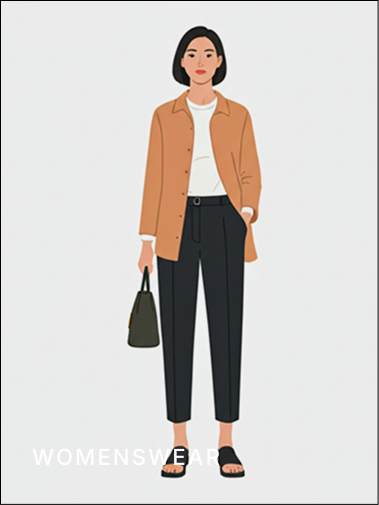
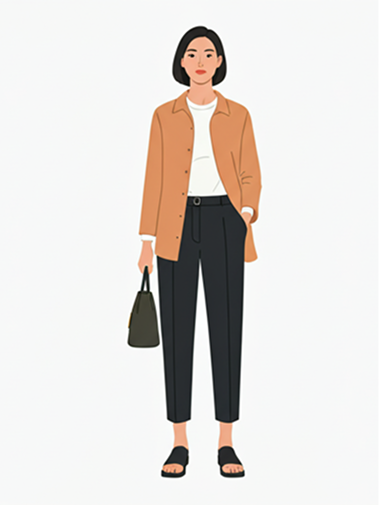
Trending-sec

Changed region(s): [[0.0, 0.0, 1.0, 1.0], [0.4354, 0.8614, 0.4934, 0.9208], [0.0, 0.0, 0.029, 0.0297]]

diff --git a/assets/src/output.css b/assets/src/output.css
@@ -16,10 +16,15 @@
     --text-sm--line-height: calc(1.25 / 0.875);
     --text-base: 1rem;
     --text-base--line-height: calc(1.5 / 1);
+    --text-lg: 1.125rem;
+    --text-lg--line-height: calc(1.75 / 1.125);
     --text-xl: 1.25rem;
     --text-xl--line-height: calc(1.75 / 1.25);
+    --text-2xl: 1.5rem;
+    --text-2xl--line-height: calc(2 / 1.5);
     --text-5xl: 3rem;
     --text-5xl--line-height: 1;
+    --font-weight-bold: 700;
     --default-transition-duration: 150ms;
     --default-transition-timing-function: cubic-bezier(0.4, 0, 0.2, 1);
     --default-font-family: var(--font-sans);
@@ -180,6 +185,45 @@
   }
 }
 @layer utilities {
+  .absolute {
+    position: absolute;
+  }
+  .relative {
+    position: relative;
+  }
+  .top-4 {
+    top: calc(var(--spacing) * 4);
+  }
+  .top-8 {
+    top: calc(var(--spacing) * 8);
+  }
+  .bottom-0 {
+    bottom: calc(var(--spacing) * 0);
+  }
+  .bottom-8 {
+    bottom: calc(var(--spacing) * 8);
+  }
+  .left-0 {
+    left: calc(var(--spacing) * 0);
+  }
+  .left-4 {
+    left: calc(var(--spacing) * 4);
+  }
+  .left-8 {
+    left: calc(var(--spacing) * 8);
+  }
+  .z-1 {
+    z-index: 1;
+  }
+  .z-3 {
+    z-index: 3;
+  }
+  .z-7 {
+    z-index: 7;
+  }
+  .z-10 {
+    z-index: 10;
+  }
   .container {
     width: 100%;
     @media (width >= 40rem) {
@@ -255,6 +299,9 @@
   .flex-col {
     flex-direction: column;
   }
+  .flex-row {
+    flex-direction: row;
+  }
   .items-center {
     align-items: center;
   }
@@ -264,6 +311,12 @@
   .justify-start {
     justify-content: flex-start;
   }
+  .gap-1 {
+    gap: calc(var(--spacing) * 1);
+  }
+  .gap-2 {
+    gap: calc(var(--spacing) * 2);
+  }
   .gap-4 {
     gap: calc(var(--spacing) * 4);
   }
@@ -272,6 +325,9 @@
   }
   .gap-8 {
     gap: calc(var(--spacing) * 8);
+  }
+  .gap-12 {
+    gap: calc(var(--spacing) * 12);
   }
   .border {
     border-style: var(--tw-border-style);
@@ -290,6 +346,24 @@
   .bg-sectionbackground {
     background-color: var(--color-sectionbackground);
   }
+  .bg-white {
+    background-color: var(--color-white);
+  }
+  .p-1 {
+    padding: calc(var(--spacing) * 1);
+  }
+  .p-6 {
+    padding: calc(var(--spacing) * 6);
+  }
+  .p-10 {
+    padding: calc(var(--spacing) * 10);
+  }
+  .px-2 {
+    padding-inline: calc(var(--spacing) * 2);
+  }
+  .px-3 {
+    padding-inline: calc(var(--spacing) * 3);
+  }
   .px-6 {
     padding-inline: calc(var(--spacing) * 6);
   }
@@ -298,6 +372,12 @@
   }
   .px-24 {
     padding-inline: calc(var(--spacing) * 24);
+  }
+  .py-1 {
+    padding-block: calc(var(--spacing) * 1);
+  }
+  .py-2 {
+    padding-block: calc(var(--spacing) * 2);
   }
   .py-4 {
     padding-block: calc(var(--spacing) * 4);
@@ -317,6 +397,14 @@
   .text-center {
     text-align: center;
   }
+  .text-2xl {
+    font-size: var(--text-2xl);
+    line-height: var(--tw-leading, var(--text-2xl--line-height));
+  }
+  .text-lg {
+    font-size: var(--text-lg);
+    line-height: var(--tw-leading, var(--text-lg--line-height));
+  }
   .text-sm {
     font-size: var(--text-sm);
     line-height: var(--tw-leading, var(--text-sm--line-height));
@@ -333,11 +421,22 @@
     font-size: var(--text-xs);
     line-height: calc(var(--spacing) * 3);
   }
+  .font-bold {
+    --tw-font-weight: var(--font-weight-bold);
+    font-weight: var(--font-weight-bold);
+  }
+  .text-black {
+    color: var(--color-black);
+  }
   .text-white {
     color: var(--color-white);
   }
   .underline {
     text-decoration-line: underline;
+  }
+  .shadow {
+    --tw-shadow: 0 1px 3px 0 var(--tw-shadow-color, rgb(0 0 0 / 0.1)), 0 1px 2px -1px var(--tw-shadow-color, rgb(0 0 0 / 0.1));
+    box-shadow: var(--tw-inset-shadow), var(--tw-inset-ring-shadow), var(--tw-ring-offset-shadow), var(--tw-ring-shadow), var(--tw-shadow);
   }
   .shadow-md {
     --tw-shadow: 0 4px 6px -1px var(--tw-shadow-color, rgb(0 0 0 / 0.1)), 0 2px 4px -2px var(--tw-shadow-color, rgb(0 0 0 / 0.1));
@@ -346,6 +445,9 @@
   .outline {
     outline-style: var(--tw-outline-style);
     outline-width: 1px;
+  }
+  .text-shadow-2xs {
+    text-shadow: 0px 1px 0px var(--tw-text-shadow-color, rgb(0 0 0 / 0.15));
   }
   .sm\:flex-row {
     @media (width >= 40rem) {
@@ -392,6 +494,11 @@
       gap: calc(var(--spacing) * 12);
     }
   }
+  .md\:p-0 {
+    @media (width >= 48rem) {
+      padding: calc(var(--spacing) * 0);
+    }
+  }
   .md\:px-8 {
     @media (width >= 48rem) {
       padding-inline: calc(var(--spacing) * 8);
@@ -418,6 +525,12 @@
       line-height: var(--tw-leading, var(--text-5xl--line-height));
     }
   }
+  .md\:text-sm {
+    @media (width >= 48rem) {
+      font-size: var(--text-sm);
+      line-height: var(--tw-leading, var(--text-sm--line-height));
+    }
+  }
   .md\:text-xs {
     @media (width >= 48rem) {
       font-size: var(--text-xs);
@@ -438,6 +551,12 @@
     @media (width >= 64rem) {
       font-size: var(--text-base);
       line-height: var(--tw-leading, var(--text-base--line-height));
+    }
+  }
+  .lg\:text-sm {
+    @media (width >= 64rem) {
+      font-size: var(--text-sm);
+      line-height: var(--tw-leading, var(--text-sm--line-height));
     }
   }
 }
@@ -473,6 +592,10 @@
   syntax: "*";
   inherits: false;
   initial-value: solid;
+}
+@property --tw-font-weight {
+  syntax: "*";
+  inherits: false;
 }
 @property --tw-shadow {
   syntax: "*";
@@ -544,6 +667,15 @@
   inherits: false;
   initial-value: solid;
 }
+@property --tw-text-shadow-color {
+  syntax: "*";
+  inherits: false;
+}
+@property --tw-text-shadow-alpha {
+  syntax: "<percentage>";
+  inherits: false;
+  initial-value: 100%;
+}
 @layer properties {
   @supports ((-webkit-hyphens: none) and (not (margin-trim: inline))) or ((-moz-orient: inline) and (not (color:rgb(from red r g b)))) {
     *, ::before, ::after, ::backdrop {
@@ -552,6 +684,7 @@
       --tw-scale-y: 1;
       --tw-scale-z: 1;
       --tw-border-style: solid;
+      --tw-font-weight: initial;
       --tw-shadow: 0 0 #0000;
       --tw-shadow-color: initial;
       --tw-shadow-alpha: 100%;
@@ -567,6 +700,8 @@
       --tw-ring-offset-color: #fff;
       --tw-ring-offset-shadow: 0 0 #0000;
       --tw-outline-style: solid;
+      --tw-text-shadow-color: initial;
+      --tw-text-shadow-alpha: 100%;
     }
   }
 }

diff --git a/index.html b/index.html
@@ -59,21 +59,30 @@
 
     <section class="container mx-auto py-20">
       <div class="flex flex-col sm:flex-row items-center  gap-6">
-        <div><img src="./assets/img/landing page/Card 1.png" alt="Card 1"></div>
-        <div><img src="./assets/img/landing page/Card 2.png" alt="Card 2"></div>
-        <div><img src="./assets/img/landing page/Card 3.png" alt="Card 3"></div>
+        <div class="relative">
+          <img  src="./assets/img/landing page/Card 1.png" alt="Card 1">
+          <span class="absolute bottom-8 left-8 z-7 text-white">WOMENSWEAR</span>
+        </div>
+        <div class="relative">
+          <img src="./assets/img/landing page/Card 2.png" alt="Card 2">
+          <span class="absolute bottom-8 left-8 z-7 text-white">MENSWEAR</span>
+        </div>
+        <div class="relative">
+          <img src="./assets/img/landing page/Card 3.png" alt="Card 3">
+          <span class="absolute bottom-8 left-8 z-7 text-white" >OBJECTS</span>
+        </div>
       </div>
     </section>
 
     <section class="flex items-center flex-col md:flex-row pt-11 md:pt-0 gap-8 md:gap-0 bg-sectionbackground">
       <div class="w-full">
-        <img  src="./assets/img/landing page/foorwear.png" alt="hero-img">
+        <img  src="./assets/img/landing page/foorwear.png" alt="foorwear-img">
       </div>
 
       <div class="px-24 flex flex-col gap-8 md:gap-12 justify-start ">
         <div class="flex flex-col ">
           <span class="text-xs">THE FOOTWEAR COLLECTION</span>
-          <h1 class="pt-3 md:pt-6 pb-4 md:pb-8 text-xl xs:text-3xl md:text-5xl">Step into the season with purpose</h1>
+          <h2 class="pt-3 md:pt-6 pb-4 md:pb-8 text-xl xs:text-3xl md:text-5xl">Step into the season with purpose</h2>
           <p class="text-sm">Handcrafted in Italy using premium full-grain leathers, our footwear is designed for the modern flâneur who values both form and function.</p>
         </div>
 
@@ -84,6 +93,57 @@
 
       </div>
 
+    </section>
+
+    <section class="py-20">
+      <div class="container mx-auto flex flex-col gap-12 p-6 md:p-0">
+        <div class="flex flex-col gap-1">
+          <span class="text-xs" >CURATED SELECTION</span>
+        <h2 class="text-2xl">Trending Pieces</h2>
+        </div>
+
+         <div class="flex flex-col sm:flex-row items-center  gap-6">
+        <div class="relative flex flex-col gap-6">
+          <span class="absolute top-4 left-4 z-7 text-black bg-white shadow py-1 px-3">new</span>
+          <img  src="./assets/img/landing page/trending.png" alt="trending 1">
+          <div class="flex flex-col gap-2">
+            <div class="row justify-between">
+            <h3 class="text-xs ">OVERSIZED TRENCH COAT</h3>
+            <span class="text-xs">$850.00</span>
+          </div>
+          <span class="text-xs">Light Bone</span>
+          </div>
+        
+          
+        </div>
+        <div class="relative flex flex-col gap-6">
+          <span class="absolute top-4 left-4 z-7 text-black bg-white shadow py-1 px-3">new</span>
+          <img src="./assets/img/landing page/trending 2.png" alt="trending 2">
+          <div class="flex flex-col gap-2">
+            <div class="row justify-between">
+            <h3 class="text-xs">SCULPTURAL LEATHER BAG</h3>
+            <span class="text-xs">$420.00</span>
+          </div>
+          <span class="text-xs">Onyx Black</span>
+          </div>
+          
+        </div>
+        <div class="relative flex flex-col gap-6">
+          <span class="absolute top-4 left-4 z-7 text-black bg-white shadow py-1 px-3" >new</span>
+          <img src="./assets/img/landing page/trending 3.png" alt="trending 3">
+          <div class="flex flex-col gap-2">
+            <div class="row justify-between">
+            <h3 class="text-xs">WOOL CASHMERE SWEATER</h3>
+            <span class="text-xs">$310.00</span>
+          </div>
+          <span class="text-xs">Slate Grey</span>
+          </div>
+          
+        </div>
+      </div>
+
+      
+      </div>
     </section>
 
   </main>
